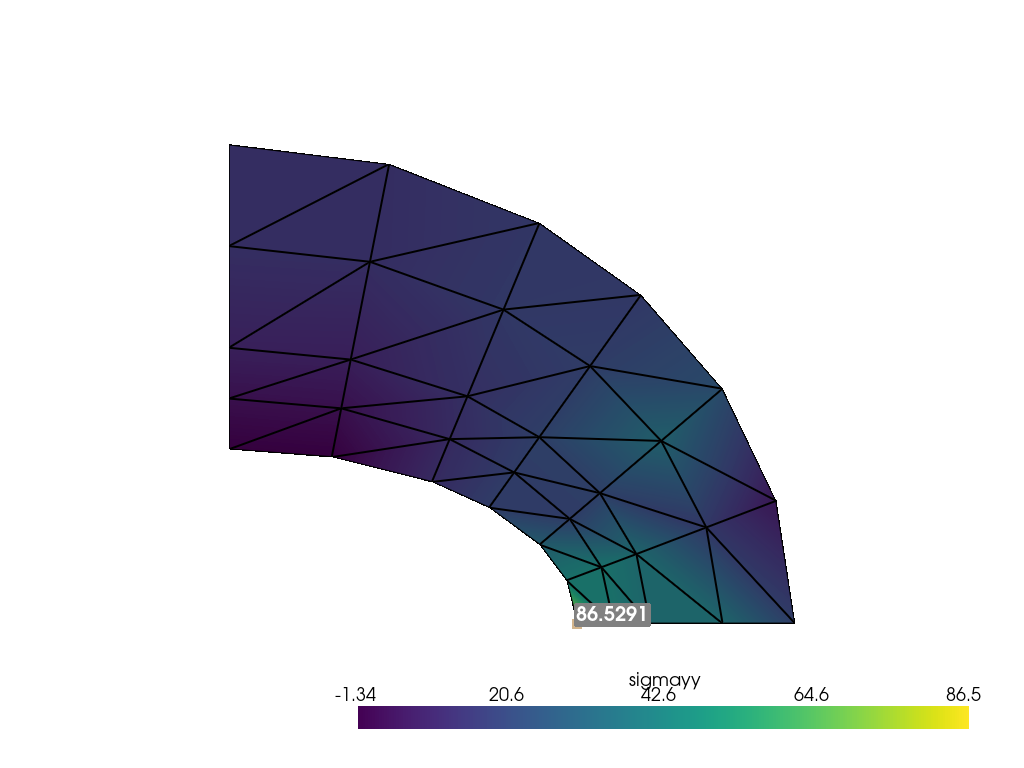
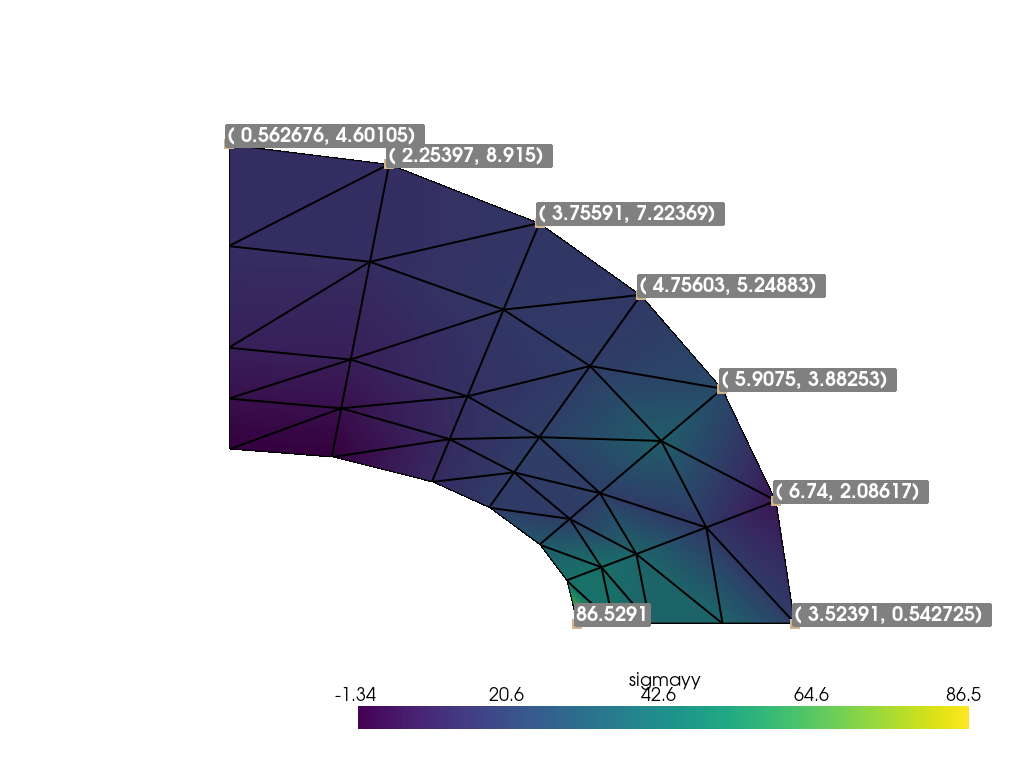
Add output fine-triangle-1d.py

diff --git a/benchmarks_data/structure/elliptic_membrane/GetFEM/fine-triangle-1d.py b/benchmarks_data/structure/elliptic_membrane/GetFEM/fine-triangle-1d.py
@@ -45,6 +45,8 @@ md.add_initialized_data("nu", nu)
 md.add_isotropic_linearized_elasticity_pstress_brick(mim, "u", "E", "nu")
 md.add_normal_source_term_brick(mim, "u", "NeumannData", OUTER_BOUND)
 # md.add_source_term(mim, "(Reshape(NeumannData,qdim(u),meshdim)*Normal).Test_u", OUTER_BOUND)
+md.assembly()
+RHS = md.rhs()
 md.add_initialized_data("r1", [0, 0])
 md.add_initialized_data("r2", [0, 0])
 md.add_initialized_data("H1", [[1, 0], [0, 0]])
@@ -59,16 +61,24 @@ md.solve()
 U = md.variable("u")
 grad_u = gf.compute_gradient(mfu, U, mfd)
 sigmayy = clambda * (grad_u[0, 0] + grad_u[1, 1]) + 2.0 * mu * grad_u[1, 1]
-mfu.export_to_vtk("fine-triangle-1d.vtk", "ascii", mfd, sigmayy, "sigmayy")
+mfu.export_to_vtk(
+    "fine-triangle-1d.vtk", "ascii", mfd, sigmayy, "sigmayy", mfu, RHS, "RHS"
+)
 
 m = pv.read("fine-triangle-1d.vtk")
 pl = pv.Plotter()
 pl.add_mesh(m, show_edges=True, line_width=2, scalars="sigmayy")
 pl.add_point_labels(
-    m.points[np.all(m.points == [2.0, 0.0, 0.0], axis=1)],
-    [str(m["sigmayy"][np.all(m.points == [2.0, 0.0, 0.0], axis=1)][0])],
-    point_size=10,
-    font_size=20,
-    text_color="white",
+    m.points[8], [str(m["sigmayy"][8])], point_size=10, font_size=20, text_color="white"
 )
+
+for i in [18, 20, 22, 24, 26, 30, 32]:
+    pl.add_point_labels(
+        m.points[i],
+        ["( " + str(m["RHS"][:, 0][i]) + ", " + str(m["RHS"][:, 1][i]) + ") "],
+        point_size=10,
+        font_size=20,
+        text_color="white",
+    )
+
 pl.show(cpos="xy", screenshot="fine-triangle-1d.png")
